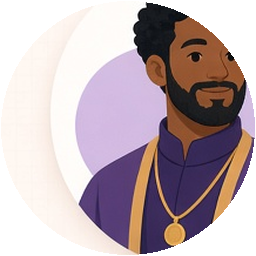
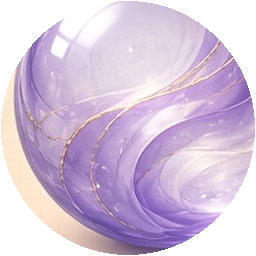
Johnny lock: marble/glass orbs for agents + Muse docs
Replace face avatars with glossy orb slices; stage 05/07/08/09 orb sheets; land docs pack for Grok-driven changes.

diff --git a/docs/REBUILD-BRIEF.md b/docs/REBUILD-BRIEF.md
@@ -1,0 +1,53 @@
+# BYFAE = Kinso clone + Vault copy — Muse (12 Sep 2026)
+
+Johnny lock: duplicate the **entire** Kinso site visual system/density with our offer copy. Not more incremental cards.
+
+## Roles
+- **Muse:** DNA + every visual (hero UI mockups, feature panels, dark-zone fragments, icons, textures)
+- **Wren:** implement page structure, frosted nav, marquees, scroll reveals, wire our copy
+- **Vera:** gate Kinso parity (frosted materials, spacing, motion, Kent’s 10)
+
+## Kinso → BYFAE section map
+| Kinso | BYFAE / Vault copy beat | Visual Muse ships |
+| --- | --- | --- |
+| Frosted sticky nav + Join CTA | The AI Founder’s Vault · week · employees · pricing · FAQ · Join | frosted pill nav DNA (Wren CSS); black pill CTA |
+| Hero: “One inbox, every conversation” + floating product UI | “Get Your First AI Employee Working” + VSL still **or** product UI stack (draft waiting for send) | layered hero mockup (desktop+mobile+notification chips) |
+| Integrations marquee | “Ready-made employees” logo/chip marquee (ops / content / inbox / calendar…) | chip/icon row art |
+| Feature: Draft response | Day 3–5: draft you can send (you keep send) | floating composer UI mockup on peach→aqua grid wash |
+| Feature: Universal search | Name the leftover job / match employee | search-style panel mockup |
+| Feature: Contextual assistant | Plug in + how you talk / never send | assistant/context UI mockup |
+| Dark grid zone “Start every day” | Week at a glance / Day 0–7 denser immersive | dark-grid floating fragments |
+| FAQ | Existing Vault FAQ | same layout; no new art required |
+| Footer Join | Skool CTA $37/mo · $297/yr · 7-day draft-or-refund | — |
+
+## Visual DNA (must match Kinso)
+- Soft peach → white → pale aqua washes + fine square grid
+- Frosted sticky nav (`blur` + translucent white)
+- Product UI mockups as the storytelling (not stock lifestyle alone)
+- Black pill CTAs (can keep Vault orange as secondary later — default Kinso black for parity)
+- Scroll: sticky nav, logo marquee, UI state reveals on enter-view
+- Optional late-page near-black grid zone
+
+## Copy source
+Sales page doc Johnny attached (hero, offer, week, employees, pricing, FAQ). Do not invent testimonials. Do not put warehouse stats on first screen.
+
+## Ship order
+1. Hero layered product UI (Kinso parity)
+2. Three light feature panels (draft / leftover-job match / plug-in context) on wash+grid
+3. Employee chip marquee strip
+4. Dark-zone week fragments
+5. Soft grid + wash textures for Wren CSS
+
+Keep current VSL poster as optional video fallback under/next to hero UI until Johnny picks one.
+
+## Agent images (12 Sep — Johnny ask)
+Stylized flat avatars (not photoreal). Sheets for employee list; marquee v2 for density FAIL.
+
+| File | Contents |
+| --- | --- |
+| `07-agents-ops.png` | Clark, Vesper, Pulse, Anchor, Ledger, Lisa |
+| `08-agents-growth.png` | Swen, Radar, Scribe, Herald, Nova, Donna |
+| `09-agents-pipeline.png` | Nexus, Keel, Vox, Steve, Forge |
+| `05-employee-marquee-v2.png` | Avatar+name pills — wire this for Vera marquee density |
+
+Wren: slice circles to 1:1 PNGs for list rows; use marquee v2 for the looping strip.

diff --git a/docs/art/REBUILD-BRIEF.md b/docs/art/REBUILD-BRIEF.md
@@ -1,0 +1,53 @@
+# BYFAE = Kinso clone + Vault copy — Muse (12 Sep 2026)
+
+Johnny lock: duplicate the **entire** Kinso site visual system/density with our offer copy. Not more incremental cards.
+
+## Roles
+- **Muse:** DNA + every visual (hero UI mockups, feature panels, dark-zone fragments, icons, textures)
+- **Wren:** implement page structure, frosted nav, marquees, scroll reveals, wire our copy
+- **Vera:** gate Kinso parity (frosted materials, spacing, motion, Kent’s 10)
+
+## Kinso → BYFAE section map
+| Kinso | BYFAE / Vault copy beat | Visual Muse ships |
+| --- | --- | --- |
+| Frosted sticky nav + Join CTA | The AI Founder’s Vault · week · employees · pricing · FAQ · Join | frosted pill nav DNA (Wren CSS); black pill CTA |
+| Hero: “One inbox, every conversation” + floating product UI | “Get Your First AI Employee Working” + VSL still **or** product UI stack (draft waiting for send) | layered hero mockup (desktop+mobile+notification chips) |
+| Integrations marquee | “Ready-made employees” logo/chip marquee (ops / content / inbox / calendar…) | chip/icon row art |
+| Feature: Draft response | Day 3–5: draft you can send (you keep send) | floating composer UI mockup on peach→aqua grid wash |
+| Feature: Universal search | Name the leftover job / match employee | search-style panel mockup |
+| Feature: Contextual assistant | Plug in + how you talk / never send | assistant/context UI mockup |
+| Dark grid zone “Start every day” | Week at a glance / Day 0–7 denser immersive | dark-grid floating fragments |
+| FAQ | Existing Vault FAQ | same layout; no new art required |
+| Footer Join | Skool CTA $37/mo · $297/yr · 7-day draft-or-refund | — |
+
+## Visual DNA (must match Kinso)
+- Soft peach → white → pale aqua washes + fine square grid
+- Frosted sticky nav (`blur` + translucent white)
+- Product UI mockups as the storytelling (not stock lifestyle alone)
+- Black pill CTAs (can keep Vault orange as secondary later — default Kinso black for parity)
+- Scroll: sticky nav, logo marquee, UI state reveals on enter-view
+- Optional late-page near-black grid zone
+
+## Copy source
+Sales page doc Johnny attached (hero, offer, week, employees, pricing, FAQ). Do not invent testimonials. Do not put warehouse stats on first screen.
+
+## Ship order
+1. Hero layered product UI (Kinso parity)
+2. Three light feature panels (draft / leftover-job match / plug-in context) on wash+grid
+3. Employee chip marquee strip
+4. Dark-zone week fragments
+5. Soft grid + wash textures for Wren CSS
+
+Keep current VSL poster as optional video fallback under/next to hero UI until Johnny picks one.
+
+## Agent images (12 Sep — Johnny ask)
+Stylized flat avatars (not photoreal). Sheets for employee list; marquee v2 for density FAIL.
+
+| File | Contents |
+| --- | --- |
+| `07-agents-ops.png` | Clark, Vesper, Pulse, Anchor, Ledger, Lisa |
+| `08-agents-growth.png` | Swen, Radar, Scribe, Herald, Nova, Donna |
+| `09-agents-pipeline.png` | Nexus, Keel, Vox, Steve, Forge |
+| `05-employee-marquee-v2.png` | Avatar+name pills — wire this for Vera marquee density |
+
+Wren: slice circles to 1:1 PNGs for list rows; use marquee v2 for the looping strip.

diff --git a/docs/art/DNA.md b/docs/art/DNA.md
@@ -1,18 +1,33 @@
-# BYFAE visual DNA (Muse)
+# Art DNA — buildyourfirstaiemployee (Kinso parity)
 
-Source of truth for art direction. Wren implements; Vera gates.
+**Locked 12 Sep 2026 (Johnny)**
 
-## Aesthetic
-- Kinso product-site: soft peach→white→pale aqua washes, fine square grid
-- Frosted sticky nav; product-UI feature storytelling
-- Accents: cooler Kinso blue/purple on **new assets**; page CTAs per current lock (ask Johnny before flipping orange→black globally)
-- Restraint over funnel chrome
+## Goal
+Duplicate **Kinso.ai** visual structure and design density with Vault / BYFAE copy — not a text page with a few cards.
 
-## Do / don't for assets
-- Do: warm light, clear metaphor, leave soft area for play controls on posters
-- Don't: fake dense UI chrome that fights real components; AI sludge; invented brand marks
+## Look language (Kinso)
+- Soft **peach → white → pale aqua** washes + fine square grid
+- Frosted sticky nav (`backdrop-blur`, translucent white)
+- Feature storytelling via **floating product UI mockups** (two-column copy + visual)
+- Black pill CTAs (Vault orange optional secondary only)
+- Late-page **near-black grid zone** for week density
+- Scroll: sticky nav, marquee loop, UI state reveals on enter-view (no heavy parallax)
 
-## Related
-- Asset index: `docs/art/ASSETS.md`
-- Latest handoff: `docs/art/HANDOFF.md`
-- Binaries: `public/kinso/`
+## Accents
+- Purple `#7C5AC5`, blue `#0099FF`, coral/peach, teal
+- Soft multi-layer shadows; radius ~12–24px; pills ~999px
+
+## Agent identity (locked)
+- Ready-made employees are **glossy marble / glass orbs** — **not** illustrated face headshots
+- Unique color swirl per agent; soft specular highlight
+- Marquee + employee list use the same orb language
+
+## Craft bar (She Remains insight)
+- Every major claim gets a **visual explanation**
+- Raise design amount to Kinso density without adopting loud peach-carousel funnel aesthetics
+
+## Owners
+- Muse: assets + this DNA
+- Wren: implement
+- Vera: Kinso parity gate + Kent’s 10
+- Ridge: Render

diff --git a/docs/art/HANDOFF.md b/docs/art/HANDOFF.md
@@ -1,7 +1,23 @@
-# Muse → Wren handoff (latest)
+# Muse → Wren handoff
 
-- **Marquee:** Live UI uses sliced `avatars/*` avatar+name pills (17 seats). Muse `05` v4-dense staged for plate/underlay if needed.
-- **Dark week:** Use `06-dark-week.png` (= v2) — labels Priority / Leftover / Sent only.
-- **Employees list:** Faces from `avatars/{name}.png` matching copy seats.
-- **Do not:** Invent testimonials; warehouse stats on first screen; invent VSL URL.
-- **Gate:** Vera Kinso parity PASS through punch-list + marquee density @306870d.
+## Current locks
+1. Full Kinso-structure rebuild with Vault copy (not elevation-only)
+2. Agent visuals = **orbs** (Johnny 12 Sep) — swap any face avatars still on tip
+3. Dark-week chips must read **Priority / Leftover / Sent** (v2 art)
+4. Marquee density: prefer orb marquee file; HTML chips OK interim
+
+## Drop paths
+All art: `/workspace/byfae-assets/kinso-clone/` → stage to `public/kinso/`
+
+## GitHub for Grok
+Commit:
+- `AGENTS.md` (Helm seeded)
+- `docs/art/DNA.md`
+- `docs/art/ASSETS.md`
+- `docs/art/HANDOFF.md`
+- `docs/art/REBUILD-BRIEF.md` (section map)
+
+So Johnny / Grok can drive changes from repo docs, not chat history.
+
+## Proof
+Vera re-gates Kinso parity after orb swap + soft punch-list. Ridge bumps Render when tip is green.

diff --git a/docs/DESIGN-DNA.md b/docs/DESIGN-DNA.md
@@ -1,0 +1,26 @@
+# BYFAE Design DNA — Kinso parity
+
+Locked 12 Sep 2026 (Johnny): duplicate Kinso.ai visual structure/density with Vault/BYFAE copy.
+
+## Look
+- Soft peach → white → pale aqua washes + fine square grid
+- Frosted sticky nav (`backdrop-blur`, translucent white)
+- Product UI mockups as feature storytelling
+- Black pill CTAs (Vault orange optional secondary)
+- Late-page near-black grid zone for week density
+- **Agent identity = glossy marble/glass orbs** (not illustrated face headshots)
+
+## Accents
+- Purple `#7C5AC5`, blue `#0099FF`, coral/peach, teal
+- Soft multi-layer shadows; radius 12–24px; pills ~999px
+
+## Motion (implement)
+- Sticky frosted nav
+- Employee/orb marquee loop
+- Feature UI state reveals on enter-view
+- No heavy parallax
+
+## Roles
+- Muse: assets + this DNA
+- Wren: page implement
+- Vera: Kinso parity gate + Kent’s 10

diff --git a/docs/AGENTS.md b/docs/AGENTS.md
@@ -1,0 +1,25 @@
+# AGENTS.md — buildyourfirstaiemployee (Kinso rebuild)
+
+## Product
+Sales page for The AI Founder’s Vault — “Get Your First AI Employee Working”.
+Live: https://buildyourfirstaiemployee.onrender.com
+
+## Design brief
+Follow `docs/DESIGN-DNA.md` and `docs/REBUILD-BRIEF.md`. Visual bar = Kinso.ai parity with Vault copy.
+
+## Asset paths
+See `docs/ASSETS.md`. Art lives under `public/kinso/`.
+
+## Agent visuals
+Each ready-made employee is represented by a **glossy marble/glass orb**, not a face headshot. Marquee and employee list use the same orb language.
+
+## Owners
+- Muse: creative assets / DNA docs
+- Wren: web implement (Grok Build / CloudAgent)
+- Vera: visual gate
+- Ridge: Render/deploy
+
+## Do not
+- Invent testimonials
+- Warehouse stats on first screen
+- Treat paying Vault members as leads in copy
